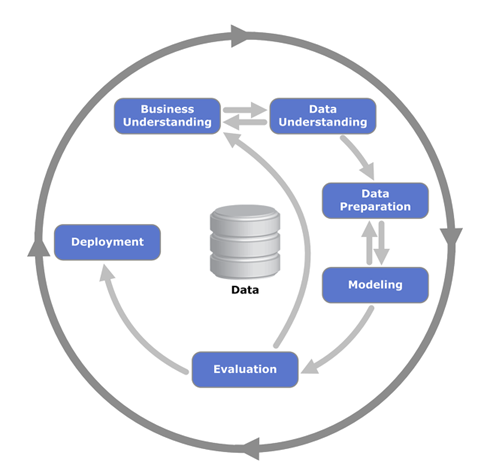
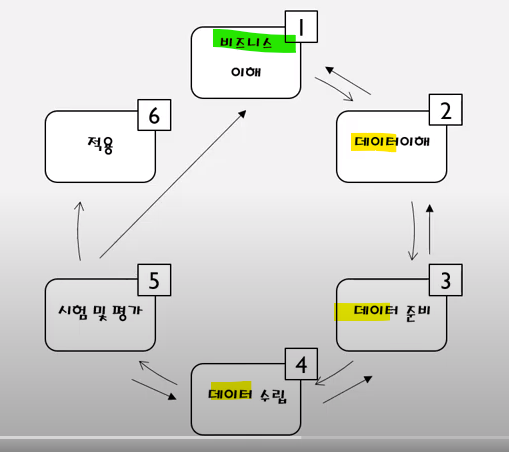
202107092231

diff --git a/note_db.js b/note_db.js
@@ -127,8 +127,7 @@
 '[Data Mining][Text]- 로봇 저널리즘',
 '[Data Mining]- 단어구름(Word Cloud)',
 '[Data Mining]- Co-Word Analysis',
-'[Data Mining]- 탐색적 데이터 분석(Exploratory Data Analysis)',
-'[Data Mining]- 확증적 데이터 분석(Confimatory Data Analysis)',
+'[Data Mining]- 데이터 분석 기술',
 '[Data Mining]- 토픽 모델링',
 '[Data Mining]- Opinion Mining',
 '[Data Mining]- System Dynamics',
@@ -2527,33 +2526,32 @@ FROM <font color = "red">TABLE_A</font> A, <font color = "red">TABLE_A</font> B 
 // Word Cloud
 '# 정의 : 시각적 표시 방법 / 메타데이터 / 태그 분석 / <br/>\
 - 메타데이터에서 얻어진 태그들을 분석하여 중요도나 인기도 등을 고려하여 시각적으로 늘어 놓아 웹사이트에 표시하는 방법 <br/><br/>\
-# 암기 <br/>\
-- 유형 : 문데 <br/>\
-- 도구 : 워A두 <br/><br/>\
 # 유형 <br/>\
 - 문서 구름 : Text Cloud - 문서 포함 단어의 시각적 표현 <br/>\
 - 데이터 구름 : Data Cloud - 단어대신 숫자 정보를 크기와 색깔로 표현 <br/><br/>\
-# 도구 : Wordle, ABCya, DoodleBuz\
+# 도구 : Wordle, ABCya, DoodleBuㅎ\
 ',
 
 // Co-Word Analysis
 '# 정의 : 내용 분석 기법 / 문장 / 단어 규칙 / 핵심개념 / 관계식별<br/>\
 - 문장 안에서 함께 사용되는 단어 규칙을 조사해서 문서의 주제와 관련된 핵심 개념이 무엇이고 이들의 관계가 어떤지 식별하는 내용 분석 기법 <br/><br/>\
-# 암기 <br/>\
-- 절차 : 수전동 <br/><br/>\
 # 절차 <br/>\
 1. 데이터 수집 <br/>\
 2. 데이터 전처리 과정 : 텍스트 마이닝, 불용어 제거, 품사 태깅, 주석 통해 제시된 명사구 선택 <br/>\
 3. 동시 출현 단어 분석 과정 \
 ',
 
-// Exploratory Data Analysis
-'# 정의 : 분석 기법 / 관찰, 가설 / 필요한 데이터 형태 추출 <br/>\
-- 관찰한 현상을 보고 가설을 설정하고 필요한 데이터의 형태를 추출하는 분석 기법',
-
-// Confimatory Data Analysis
-'# 정의 : 분석 기법 / 의사결정 / 수집, 분석, 활용 <br/>\
-- 의사결정을 하기 위해 목적에 적합한 데이터를 수집하고 분석하여 결과를 활용하는 분석기법',
+// 데이터 분석 기술
+'# 종류 <br/>\
+1. EDA(Exploratory Data Analysis) - 탐색적 데이터 분석 <br/>\
+- 정형, 비정형 데이터 정보 가공 x / 전체적 데이터 특성 분석 <br/><br/>\
+2. CDA(Confimatory Data Analysis) - 확증적 데이터 분석 <br/>\
+- EDA 기반 문제적 행위 구체적 가설 기반 분석 <br/><br/>\
+3. PDA(Predictive Data Analysis) - 예측 데이터 분석 <br/>\
+- 미래 상황 예측 초점 <br/><br/>\
+4. DDA(Descrpitive Data Analysis) - 묘사적 데이터 분석 <br/>\
+- 과거, 현재 발생 이벤트 요약 기술 \
+',
 
 // 토픽 모델링
 '# 정의 : 추론 모델 / 비정형 문서 집단 / 주제 찾기 알고리즘 / 맥락, 단어 이용 / 유사 의미 단어 클러스터링 <br/>\
@@ -2565,15 +2563,15 @@ FROM <font color = "red">TABLE_A</font> A, <font color = "red">TABLE_A</font> B 
 4. 알고리즘 적용 : 백터기반 or 확률 기반 <br/><br/>\
 # 알고리즘 유형 <br/>\
 1. 백터 기반 <br/>\
-- LSA(Latent Semantic-Analysis) : 고차원 데이터 공간에 대해 축 변경해 새로운 축을 찾아내는 가변량 통계 분석 방법 <br/>\
+- LSA(Latent Semantic-Analysis) : 고차원 데이터 공간에 대해 축 변경해 새로운 축을 찾아내는 가변량 통계 분석 방법 <br/><br/>\
 2. 확률 기반 <br/>\
-- pLSA(Probailistic LSA) : 데이터셋과 선별된 토픽 K간의 가장 잘 맵핑되는 토픽과 단어, 단어와 문서간의 조합 찾는 방법, 기존 LSA를 확률적 접근 <br/>\
-- LDA(Latent Dirichlet Allocation) : 주어진 문서 대해 각 문서에 어떤 주제들이 존재하는지에 대한 확률 모형\
+- pLSA(Probailistic LSA) : 데이터셋과 선별된 토픽 K간의 가장 잘 맵핑되는 토픽과 단어, 단어와 문서간의 <font color = "red">조합 찾는 방법</font>, 기존 LSA를 확률적 접근 <br/>\
+- LDA(Latent Dirichlet Allocation) : 주어진 문서 대해 각 문서에 <font color = "red">어떤 주제</font>들이 존재하는지에 대한 확률 모형\
 ',
   
 // Opinion Mining
 '# 정의 : Web 컨텐츠 Text / 의견, 성향 분석 / 마이닝 기법 <br/>\
-- Web 컨텐츠의 Text에 나타난 사람들의 의견, 성향등의 주관적인 평판, 경향, 감성 분석하는 자연어 처리 기술 <br/><br/>\
+- Web 컨텐츠의 Text에 나타난 사람들의 의견, 성향등의 주관적인 <font color = "red">평판, 경향, 감성</font> 분석하는 자연어 처리 기술 <br/><br/>\
 # 특징 <br/>\
 1. 문장추출 : 팩트와 의견 문장 구분 <br/>\
 2. 극성분류 : 의견이 들어간 문장을 긍정과 부정으로 구분 <br/>\
@@ -2630,7 +2628,13 @@ FROM <font color = "red">TABLE_A</font> A, <font color = "red">TABLE_A</font> B 
 - Process Instances : 데이터 마이닝 위한 구체적 실행 <br/><br/>\
 # 프로세스 <br/>\
 <img src = "./img/CRISP_DM_Process.png" style = "max-width:100%; height:auto;"><br/>\
-<img src = "./img/CRISP_DM_Detail.png" style = "max-width:100%; height:auto;">\
+- 비즈니스 이해 : 비즈니스 목표 명확 정의 / 업무 목적 파악, 상황 파악 <br/>\
+- 데이터 이해 : 해결하고자 하는 문제, 필요한 데이터 매칭 / 초기 데이터 수집, 품질 확인 <br/>\
+- 데이터 준비 : PreProcessing, 80% 시간 차지 / 선택, 정제, 통합, 분리 <br/>\
+- 모형 수립 : 데이터 모형 평가, 비교 / 테스트 설계(Cross Validation) <br/>\
+- 시험 및 평가 : 선정된 모형 비즈니스 목적 부합성 평가 / 모델 과정, 분석, 적용 평가 <br/>\
+- 적용 : 완성된 모델 업무 적용, 사후 관리 / 전개, 유지보수, 종료 <br/><br/>\
+* 111회 관리 1교시 11번\
 ',
   
 // 데이터 사이언스

diff --git a/note_bs.js b/note_bs.js
@@ -251,8 +251,8 @@ var answer = answer.concat(
 ',
  
 // Annual Reset
-'# 정의 : KPI / 차년도 계약 / 제시 지표 <br/>\
-- KPI 지표의 달성 결과에 따른 외주용영업체의 차년도 갱신(연장) 계약 조건으로 제시 지표 <br/><br/>\
+'# 정의 : KPI / 외주 용역, 차년도 계약 / 제시 지표 <br/>\
+- KPI 지표의 달성 결과에 따른 외주 용역업체의 차년도 갱신(연장) 계약 조건으로 제시 지표 <br/><br/>\
 # 적용 방법 <br/>\
 - 100% 이상시 다음연도 계약시 자동연장 가능 <br/>\
 - 유사 계약 시 가점 지표 혜택 적용 <br/><br/>\
@@ -272,14 +272,12 @@ var answer = answer.concat(
 '# 정의 : 프로세스 관리 활동 / 고객 신뢰 증진 및 서비스 향상 <br/>\
 - Service Level Management <br/>\
 - 고객과 합의된 품질 수준의 서비스가 제공되는 것을 보장함으로써 고객신뢰 증진 및 서비스 수준향상을 위한 프로세스 관리활동 <br/><br/>\
-# 암기 : SC, SLA, OLA, UC, SQ <br/><br/>\
-# 구조 : SOW -> SLA -> SLM <br/><br/>\
-# 구성  <br/>\
-- Service Catalog, SLA, OLA(내부부서간 합의서) <br/>\
-- UC : Underpinning Contract 외부협력업체간 계약 <br/>\
+# 구성 (<font color = "red">SUSMPR</font>) <br/>\
+- Service Catalog : SLA, OLA <br/>\
+- UC : Underpinning Contract 외부 협력업체간 계약 <br/>\
 - Service Quality : 서비스 수준 보장 위한 모든 내용 기술 <br/>\
 - SLM 엔진 : 지표별 측정치 산출, 보고서 작성 자동화, 서비스 모니터링 <br/>\
-- SIP(Service Improment Program) : 서비스 개선 위한 일련의 활동 <br/>\
+- SIP : 서비스 개선 위한 일련의 활동 <br/>\
 - Service Report <br/><br/>\
 # 기술요소 <br/>\
 - 서비스 카탈로그 관리도구 <br/>\
